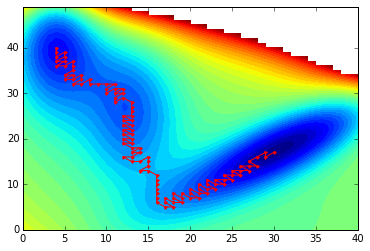
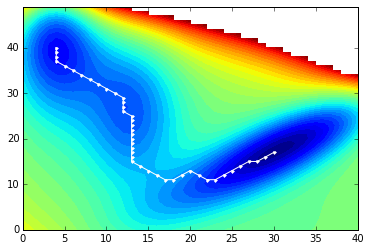
Compute the shortest path on a grid using python: last version?

Changed region(s): [[0.1486, 0.1952, 0.4162, 0.6972], [0.4162, 0.5857, 0.7432, 0.8367]]

diff --git a/2016/08/31/compute_the_shortest_path_on_a_grid_using_python.html b/2016/08/31/compute_the_shortest_path_on_a_grid_using_python.html
@@ -165,7 +165,7 @@
 
 <p>I wrote the following code to define the shortest path between two points on
 that grid. The metric I used between two adjacent points of the meshgrid is
-given by <code class="highlighter-rouge">(V[e]-V[cc])**2</code> with cc the current cell and e one of the neighboring
+given by <code class="highlighter-rouge">V[e]-V[cc]</code> with cc the current cell and e one of the neighboring
 cells. The neighbors are defined with a full connectivity: all direct neighbors
 with diagonal included.</p>
 
@@ -183,7 +183,7 @@ with diagonal included.</p>
         <span class="n">neighbors</span> <span class="o">=</span> <span class="p">[</span><span class="nb">tuple</span><span class="p">(</span><span class="n">e</span><span class="p">)</span> <span class="k">for</span> <span class="n">e</span> <span class="ow">in</span> <span class="n">asarray</span><span class="p">(</span><span class="n">cc</span><span class="p">)</span> <span class="o">-</span> <span class="n">connectivity</span> 
                      <span class="k">if</span> <span class="n">e</span><span class="p">[</span><span class="mi">0</span><span class="p">]</span> <span class="o">&gt;</span> <span class="mi">0</span> <span class="ow">and</span> <span class="n">e</span><span class="p">[</span><span class="mi">1</span><span class="p">]</span> <span class="o">&gt;</span> <span class="mi">0</span> <span class="ow">and</span> <span class="n">e</span><span class="p">[</span><span class="mi">0</span><span class="p">]</span> <span class="o">&lt;</span> <span class="n">V</span><span class="o">.</span><span class="n">shape</span><span class="p">[</span><span class="mi">0</span><span class="p">]</span> <span class="ow">and</span> <span class="n">e</span><span class="p">[</span><span class="mi">1</span><span class="p">]</span> <span class="o">&lt;</span> <span class="n">V</span><span class="o">.</span><span class="n">shape</span><span class="p">[</span><span class="mi">1</span><span class="p">]]</span>
         <span class="n">neighbors</span> <span class="o">=</span> <span class="p">[</span> <span class="n">e</span> <span class="k">for</span> <span class="n">e</span> <span class="ow">in</span> <span class="n">neighbors</span> <span class="k">if</span> <span class="ow">not</span> <span class="n">visit_mask</span><span class="p">[</span><span class="n">e</span><span class="p">]</span> <span class="p">]</span>
-        <span class="n">tentative_distance</span> <span class="o">=</span> <span class="p">[(</span><span class="n">V</span><span class="p">[</span><span class="n">e</span><span class="p">]</span><span class="o">-</span><span class="n">V</span><span class="p">[</span><span class="n">cc</span><span class="p">])</span><span class="o">**</span><span class="mi">2</span> <span class="k">for</span> <span class="n">e</span> <span class="ow">in</span> <span class="n">neighbors</span><span class="p">]</span>
+        <span class="n">tentative_distance</span> <span class="o">=</span> <span class="n">asarray</span><span class="p">([</span><span class="n">V</span><span class="p">[</span><span class="n">e</span><span class="p">]</span><span class="o">-</span><span class="n">V</span><span class="p">[</span><span class="n">cc</span><span class="p">]</span> <span class="k">for</span> <span class="n">e</span> <span class="ow">in</span> <span class="n">neighbors</span><span class="p">])</span>
         <span class="k">for</span> <span class="n">i</span><span class="p">,</span><span class="n">e</span> <span class="ow">in</span> <span class="nb">enumerate</span><span class="p">(</span><span class="n">neighbors</span><span class="p">):</span>
             <span class="n">d</span> <span class="o">=</span> <span class="n">tentative_distance</span><span class="p">[</span><span class="n">i</span><span class="p">]</span> <span class="o">+</span> <span class="n">m</span><span class="p">[</span><span class="n">cc</span><span class="p">]</span>
             <span class="k">if</span> <span class="n">d</span> <span class="o">&lt;</span> <span class="n">m</span><span class="p">[</span><span class="n">e</span><span class="p">]:</span>
@@ -215,17 +215,10 @@ with diagonal included.</p>
 
 <p><img src="/assets/shortest_path_files/shortest_path_7_1.png" alt="png" /></p>
 
-<p>I’ve slightly modified the <code class="highlighter-rouge">dijkstra</code> algorithm to change the metric between
-nodes: <code class="highlighter-rouge">(V[e]-V[cc])</code> instead of <code class="highlighter-rouge">(V[e]-V[cc])**2</code>.</p>
-
-<p>With that distance, negative distances exists.</p>
-
 <p>Then, I added a metropolis criteria to accept the next step with a given
-probability: <code class="highlighter-rouge">m[e]/d &gt; numpy.random.random()</code>, but we should take care of the
-negative distances, thats why I’ve changed the distance for that function to:
-<code class="highlighter-rouge">[max((V[e]-V[cc]), 0)</code></p>
+probability: <code class="highlighter-rouge">exp(beta*(m[e]-d)) &gt; numpy.random.random()</code>.</p>
 
-<figure class="highlight"><pre><code class="language-python" data-lang="python"><span class="k">def</span> <span class="nf">dijkstra_metropolis</span><span class="p">(</span><span class="n">V</span><span class="p">):</span>
+<figure class="highlight"><pre><code class="language-python" data-lang="python"><span class="k">def</span> <span class="nf">dijkstra_metropolis</span><span class="p">(</span><span class="n">V</span><span class="p">,</span> <span class="n">beta</span><span class="o">=</span><span class="mi">1</span><span class="p">):</span>
     <span class="n">mask</span> <span class="o">=</span> <span class="n">V</span><span class="o">.</span><span class="n">mask</span>
     <span class="n">visit_mask</span> <span class="o">=</span> <span class="n">mask</span><span class="o">.</span><span class="n">copy</span><span class="p">()</span> <span class="c"># mask visited cells</span>
     <span class="n">m</span> <span class="o">=</span> <span class="n">numpy</span><span class="o">.</span><span class="n">ones_like</span><span class="p">(</span><span class="n">V</span><span class="p">)</span> <span class="o">*</span> <span class="n">numpy</span><span class="o">.</span><span class="n">inf</span>
@@ -239,29 +232,39 @@ negative distances, thats why I’ve changed the distance for that function to:
         <span class="n">neighbors</span> <span class="o">=</span> <span class="p">[</span><span class="nb">tuple</span><span class="p">(</span><span class="n">e</span><span class="p">)</span> <span class="k">for</span> <span class="n">e</span> <span class="ow">in</span> <span class="n">asarray</span><span class="p">(</span><span class="n">cc</span><span class="p">)</span> <span class="o">-</span> <span class="n">connectivity</span> 
                      <span class="k">if</span> <span class="n">e</span><span class="p">[</span><span class="mi">0</span><span class="p">]</span> <span class="o">&gt;</span> <span class="mi">0</span> <span class="ow">and</span> <span class="n">e</span><span class="p">[</span><span class="mi">1</span><span class="p">]</span> <span class="o">&gt;</span> <span class="mi">0</span> <span class="ow">and</span> <span class="n">e</span><span class="p">[</span><span class="mi">0</span><span class="p">]</span> <span class="o">&lt;</span> <span class="n">V</span><span class="o">.</span><span class="n">shape</span><span class="p">[</span><span class="mi">0</span><span class="p">]</span> <span class="ow">and</span> <span class="n">e</span><span class="p">[</span><span class="mi">1</span><span class="p">]</span> <span class="o">&lt;</span> <span class="n">V</span><span class="o">.</span><span class="n">shape</span><span class="p">[</span><span class="mi">1</span><span class="p">]]</span>
         <span class="n">neighbors</span> <span class="o">=</span> <span class="p">[</span> <span class="n">e</span> <span class="k">for</span> <span class="n">e</span> <span class="ow">in</span> <span class="n">neighbors</span> <span class="k">if</span> <span class="ow">not</span> <span class="n">visit_mask</span><span class="p">[</span><span class="n">e</span><span class="p">]</span> <span class="p">]</span>
-        <span class="n">tentative_distance</span> <span class="o">=</span> <span class="p">[</span><span class="nb">max</span><span class="p">((</span><span class="n">V</span><span class="p">[</span><span class="n">e</span><span class="p">]</span><span class="o">-</span><span class="n">V</span><span class="p">[</span><span class="n">cc</span><span class="p">]),</span> <span class="mi">0</span><span class="p">)</span> <span class="k">for</span> <span class="n">e</span> <span class="ow">in</span> <span class="n">neighbors</span><span class="p">]</span>
-        <span class="k">for</span> <span class="n">i</span><span class="p">,</span><span class="n">e</span> <span class="ow">in</span> <span class="nb">enumerate</span><span class="p">(</span><span class="n">neighbors</span><span class="p">):</span>
+        <span class="n">tentative_distance</span> <span class="o">=</span> <span class="p">[(</span><span class="n">V</span><span class="p">[</span><span class="n">e</span><span class="p">]</span><span class="o">-</span><span class="n">V</span><span class="p">[</span><span class="n">cc</span><span class="p">])</span> <span class="k">for</span> <span class="n">e</span> <span class="ow">in</span> <span class="n">neighbors</span><span class="p">]</span>
+        <span class="k">if</span> <span class="nb">len</span><span class="p">(</span><span class="n">neighbors</span><span class="p">)</span> <span class="o">&gt;</span> <span class="mi">0</span><span class="p">:</span>
+            <span class="n">rand_neighbors</span> <span class="o">=</span> <span class="n">numpy</span><span class="o">.</span><span class="n">random</span><span class="o">.</span><span class="n">choice</span><span class="p">(</span><span class="nb">len</span><span class="p">(</span><span class="n">neighbors</span><span class="p">),</span> <span class="n">size</span><span class="o">=</span><span class="nb">len</span><span class="p">(</span><span class="n">neighbors</span><span class="p">),</span> <span class="n">replace</span><span class="o">=</span><span class="bp">True</span><span class="p">)</span>
+        <span class="k">else</span><span class="p">:</span>
+            <span class="n">rand_neighbors</span> <span class="o">=</span> <span class="p">[]</span>
+        <span class="k">for</span> <span class="n">i</span> <span class="ow">in</span> <span class="n">rand_neighbors</span><span class="p">:</span>
+            <span class="n">e</span> <span class="o">=</span> <span class="n">neighbors</span><span class="p">[</span><span class="n">i</span><span class="p">]</span>
             <span class="n">d</span> <span class="o">=</span> <span class="n">tentative_distance</span><span class="p">[</span><span class="n">i</span><span class="p">]</span> <span class="o">+</span> <span class="n">m</span><span class="p">[</span><span class="n">cc</span><span class="p">]</span>
-            <span class="k">if</span> <span class="n">m</span><span class="p">[</span><span class="n">e</span><span class="p">]</span><span class="o">/</span><span class="n">d</span> <span class="o">&gt;</span> <span class="n">numpy</span><span class="o">.</span><span class="n">random</span><span class="o">.</span><span class="n">random</span><span class="p">():</span>
+            <span class="k">if</span> <span class="n">d</span> <span class="o">&lt;</span> <span class="n">m</span><span class="p">[</span><span class="n">e</span><span class="p">]:</span>
                 <span class="n">m</span><span class="p">[</span><span class="n">e</span><span class="p">]</span> <span class="o">=</span> <span class="n">d</span>
                 <span class="n">P</span><span class="p">[</span><span class="n">e</span><span class="p">]</span> <span class="o">=</span> <span class="n">cc</span>
+            <span class="k">elif</span> <span class="n">exp</span><span class="p">(</span><span class="n">beta</span><span class="o">*</span><span class="p">(</span><span class="n">m</span><span class="p">[</span><span class="n">e</span><span class="p">]</span><span class="o">-</span><span class="n">d</span><span class="p">))</span> <span class="o">&gt;</span> <span class="n">numpy</span><span class="o">.</span><span class="n">random</span><span class="o">.</span><span class="n">random</span><span class="p">():</span>
+                <span class="n">m</span><span class="p">[</span><span class="n">e</span><span class="p">]</span> <span class="o">=</span> <span class="n">d</span>
+                <span class="n">P</span><span class="p">[</span><span class="n">e</span><span class="p">]</span> <span class="o">=</span> <span class="n">cc</span>
+                <span class="k">break</span>
         <span class="n">visit_mask</span><span class="p">[</span><span class="n">cc</span><span class="p">]</span> <span class="o">=</span> <span class="bp">True</span>
         <span class="n">m_mask</span> <span class="o">=</span> <span class="n">ma</span><span class="o">.</span><span class="n">masked_array</span><span class="p">(</span><span class="n">m</span><span class="p">,</span> <span class="n">visit_mask</span><span class="p">)</span>
         <span class="n">cc</span> <span class="o">=</span> <span class="n">unravel_index</span><span class="p">(</span><span class="n">m_mask</span><span class="o">.</span><span class="n">argmin</span><span class="p">(),</span> <span class="n">m</span><span class="o">.</span><span class="n">shape</span><span class="p">)</span>
     <span class="k">return</span> <span class="n">m</span><span class="p">,</span> <span class="n">P</span></code></pre></figure>
 
+<p><code class="highlighter-rouge">beta</code> (<script type="math/tex">\beta = 1/T</script>) is the temperature factor. When <code class="highlighter-rouge">beta = numpy.inf</code> we
+obtain the same result as the <code class="highlighter-rouge">dijkstra</code> function.</p>
+
 <p>Below is the result for the Dijkstra algorithm (in white) and the Metropolis
 Dijkstra (in red):</p>
 
-<figure class="highlight"><pre><code class="language-python" data-lang="python"><span class="k">print</span> <span class="n">V</span><span class="o">.</span><span class="n">shape</span>
-<span class="n">D_mc</span><span class="p">,</span> <span class="n">P_mc</span> <span class="o">=</span> <span class="n">dijkstra_metropolis</span><span class="p">(</span><span class="n">V</span><span class="p">)</span>
+<figure class="highlight"><pre><code class="language-python" data-lang="python"><span class="n">D_mc</span><span class="p">,</span> <span class="n">P_mc</span> <span class="o">=</span> <span class="n">dijkstra_metropolis</span><span class="p">(</span><span class="n">V</span><span class="p">,</span> <span class="n">beta</span><span class="o">=</span><span class="mf">0.</span><span class="p">)</span>
 <span class="n">path_mc</span> <span class="o">=</span> <span class="n">shortestPath</span><span class="p">(</span><span class="n">unravel_index</span><span class="p">(</span><span class="n">V</span><span class="o">.</span><span class="n">argmin</span><span class="p">(),</span> <span class="n">V</span><span class="o">.</span><span class="n">shape</span><span class="p">),</span> <span class="p">(</span><span class="mi">40</span><span class="p">,</span><span class="mi">4</span><span class="p">),</span> <span class="n">P_mc</span><span class="p">)</span>
 <span class="n">D</span><span class="p">,</span> <span class="n">P</span> <span class="o">=</span> <span class="n">dijkstra</span><span class="p">(</span><span class="n">V</span><span class="p">)</span>
 <span class="n">path</span> <span class="o">=</span> <span class="n">shortestPath</span><span class="p">(</span><span class="n">unravel_index</span><span class="p">(</span><span class="n">V</span><span class="o">.</span><span class="n">argmin</span><span class="p">(),</span> <span class="n">V</span><span class="o">.</span><span class="n">shape</span><span class="p">),</span> <span class="p">(</span><span class="mi">40</span><span class="p">,</span><span class="mi">4</span><span class="p">),</span> <span class="n">P</span><span class="p">)</span>
 <span class="n">contourf</span><span class="p">(</span><span class="n">V</span><span class="p">,</span> <span class="mi">40</span><span class="p">)</span>
 <span class="n">plot</span><span class="p">(</span><span class="n">path</span><span class="p">[:,</span><span class="mi">1</span><span class="p">],</span> <span class="n">path</span><span class="p">[:,</span><span class="mi">0</span><span class="p">],</span> <span class="s">'w.-'</span><span class="p">)</span>
-<span class="n">plot</span><span class="p">(</span><span class="n">path_mc</span><span class="p">[:,</span><span class="mi">1</span><span class="p">],</span> <span class="n">path_mc</span><span class="p">[:,</span><span class="mi">0</span><span class="p">],</span> <span class="s">'r.-'</span><span class="p">)</span>
-<span class="k">print</span> <span class="n">path_mc</span><span class="o">.</span><span class="n">shape</span><span class="p">[</span><span class="mi">0</span><span class="p">],</span> <span class="n">path</span><span class="o">.</span><span class="n">shape</span><span class="p">[</span><span class="mi">0</span><span class="p">]</span></code></pre></figure>
+<span class="n">plot</span><span class="p">(</span><span class="n">path_mc</span><span class="p">[:,</span><span class="mi">1</span><span class="p">],</span> <span class="n">path_mc</span><span class="p">[:,</span><span class="mi">0</span><span class="p">],</span> <span class="s">'r.-'</span><span class="p">)</span></code></pre></figure>
 
 <p><img src="/assets/shortest_path_files/shortest_path_metropolis.png" alt="png" /></p>
 
